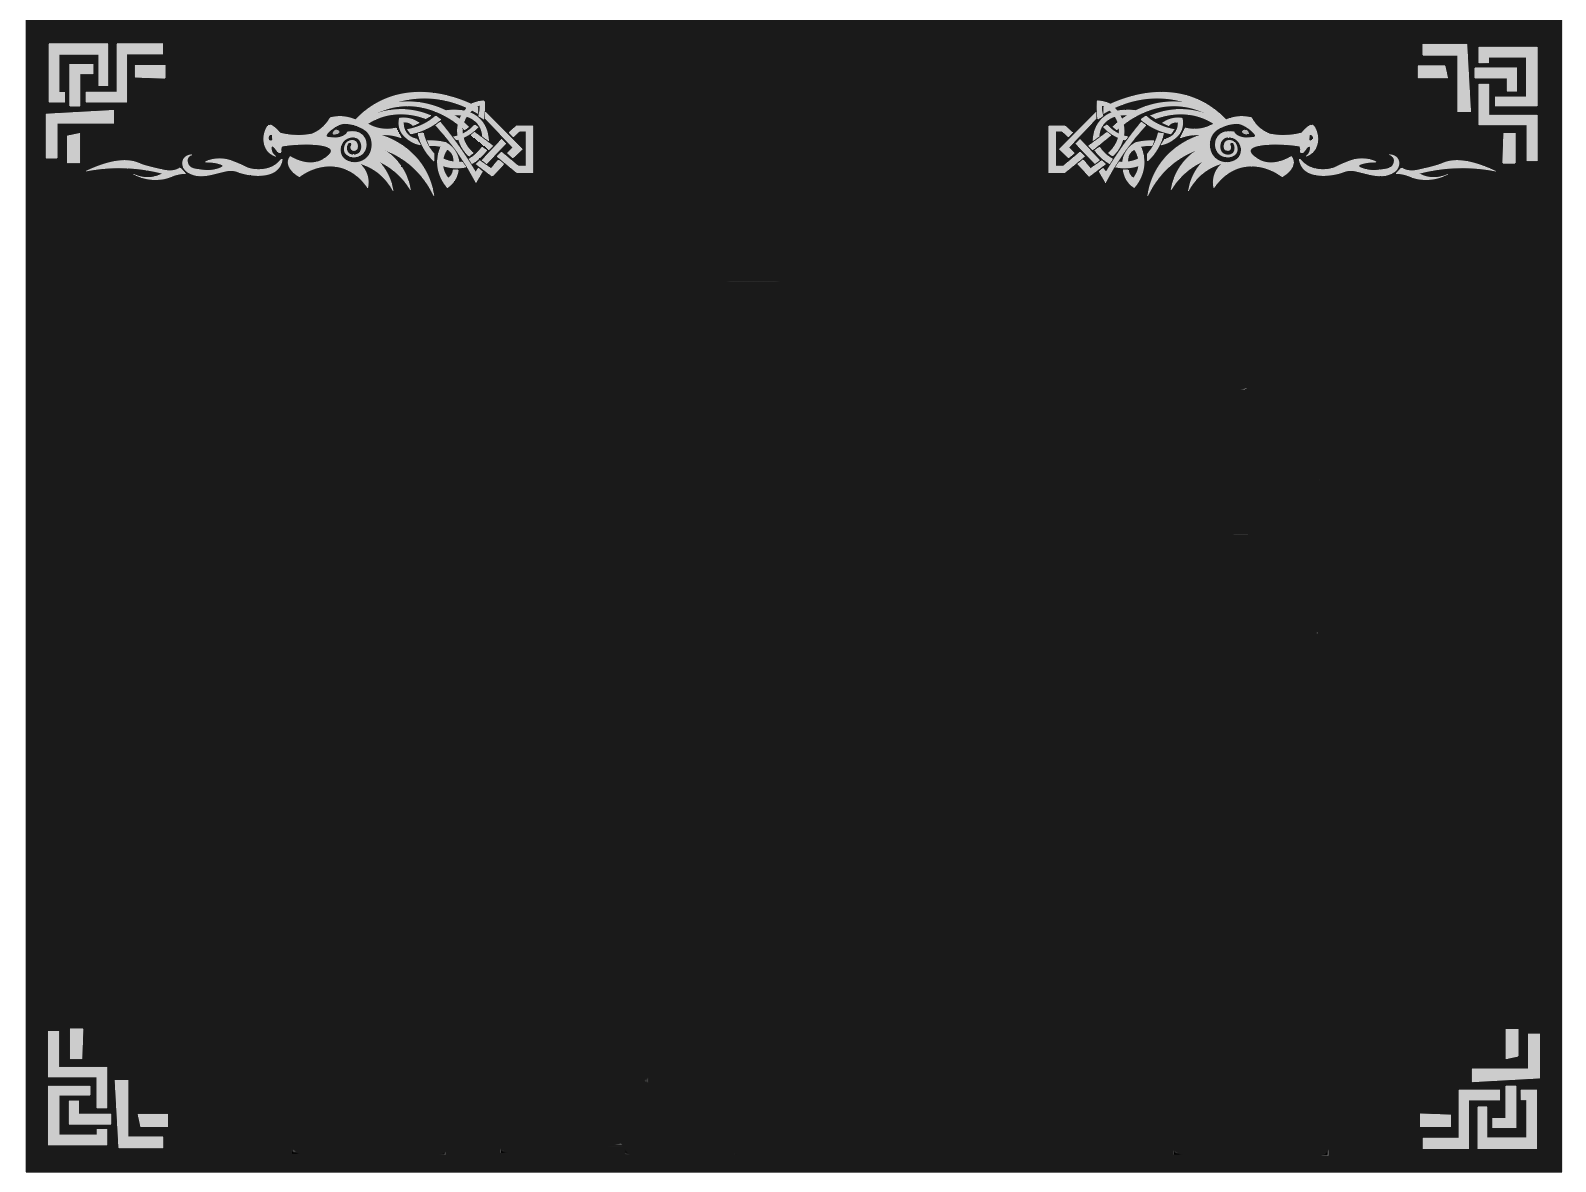
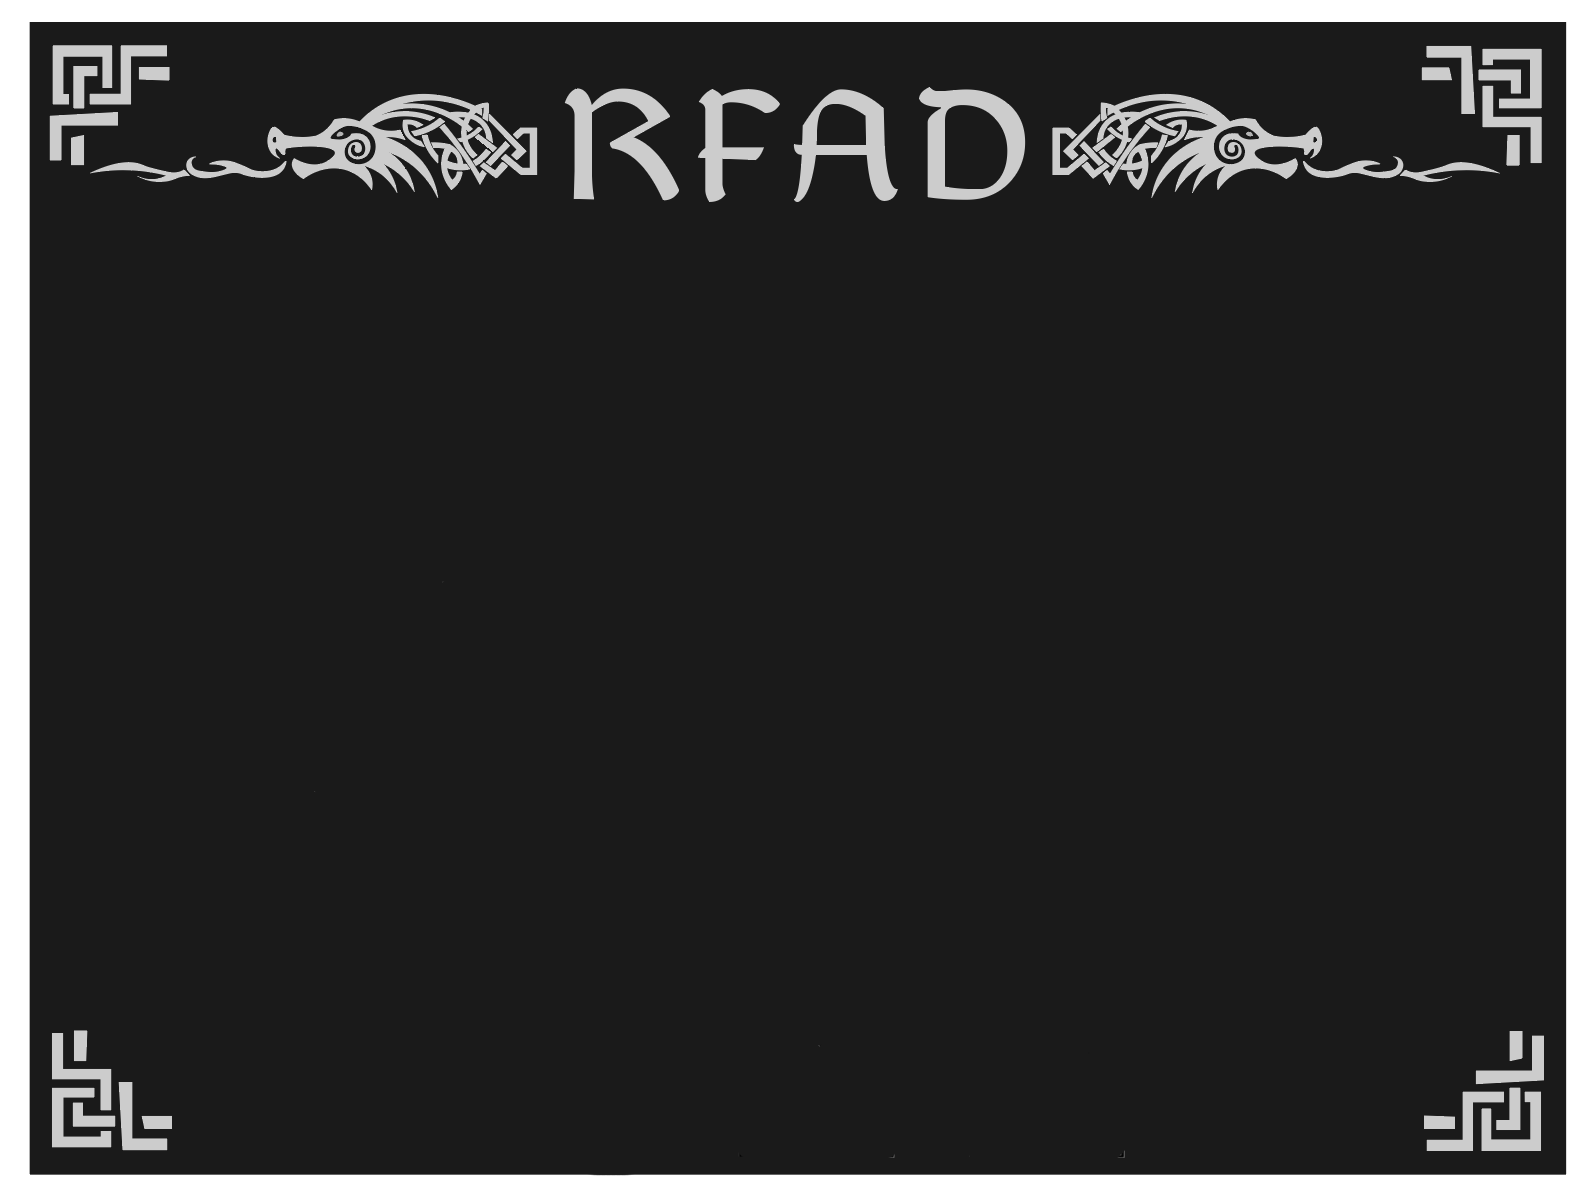
доблавен нормальный ресайз, добавлен дизайн зодиака, пока без ресайза кнопок

Changed region(s): [[0.0, 0.031, 0.9887, 0.9933]]

diff --git a/main.py b/main.py
@@ -209,7 +209,7 @@ class SkyrimLauncher(QWidget):
 
         # Определение пути к папке с игрой (текущая директория)
         self.game_path = os.path.abspath(os.getcwd())
-        self.selected_game_folder.setText(f'Game folder: {self.game_path}')
+        #self.selected_game_folder.setText(f'Game folder: {self.game_path}')
 
         # Асинхронная проверка обновлений после отображения окна
         self.check_updates_async()
@@ -219,21 +219,26 @@ class SkyrimLauncher(QWidget):
         self.timer.timeout.connect(self.update_ui)
         self.timer.start(100)  # Обновление каждые 100 мс
 
+    def update_background(self):
+        pixmap = QPixmap('assets/background2.png')
+        palette = self.palette()
+        scaled_pixmap = pixmap.scaled(
+            self.size(),
+            Qt.IgnoreAspectRatio,
+            Qt.SmoothTransformation)
+        palette.setBrush(QPalette.Background, QBrush(scaled_pixmap))
+        self.setPalette(palette)
+
+    def resizeEvent(self, event):
+        self.update_background()
+        super().resizeEvent(event)
+
     def initUI(self):
         #self.setWindowTitle('RFAD Game Launcher')
         self.setGeometry(200, 200, 800, 480)
 
         # Установка фонового изображения
-        pixmap = QPixmap(resource_path('assets/background.png'))
-        palette = self.palette()
-        palette.setBrush(
-            QPalette.Background,
-            QBrush(
-                pixmap.scaled(
-                    self.size(),
-                    Qt.IgnoreAspectRatio,
-                    Qt.SmoothTransformation)))
-        self.setPalette(palette)
+        self.update_background()
 
         layout = QVBoxLayout()
 
@@ -241,26 +246,62 @@ class SkyrimLauncher(QWidget):
         #self.title.setObjectName('title')
         #layout.addWidget(self.title)
 
-        self.selected_game_folder = QLabel('Game folder: None', self)
-        layout.addWidget(self.selected_game_folder)
+        # self.selected_game_folder = QLabel('Game folder: None', self)
+        # layout.addWidget(self.selected_game_folder)
 
-        self.update_status = QLabel('Status: Initializing...', self)
-        layout.addWidget(self.update_status)
+        # self.update_status = QLabel('Status: Initializing...', self)
+        # layout.addWidget(self.update_status)
+        #
+        # self.local_version = QLabel('Local Version: N/A', self)
+        # layout.addWidget(self.local_version)
+        #
+        # self.online_version = QLabel('Online Version: N/A', self)
+        # layout.addWidget(self.online_version)
 
-        self.local_version = QLabel('Local Version: N/A', self)
-        layout.addWidget(self.local_version)
+        # self.update_button = QPushButton('Update', self)
+        # self.update_button.setVisible(False)
+        # self.update_button.clicked.connect(self.start_update)
+        # layout.addWidget(self.update_button)
+        # hbox = QHBoxLayout()
+        # hbox.
+        # layout.addLayout(hbox)
+        layout.addStretch(1)
+        for _ in range(4):
+            button = QToolButton(self)
+            button.setIcon(QIcon(resource_path("assets/middle-button.png")))
+            button.setIconSize(QSize(400, 50))
+            button.setToolButtonStyle(Qt.ToolButtonIconOnly)
 
-        self.online_version = QLabel('Online Version: N/A', self)
-        layout.addWidget(self.online_version)
+            hbox = QHBoxLayout()
+            hbox.addStretch(1)
+            hbox.addWidget(button)
+            hbox.addStretch(1)
+            layout.addLayout(hbox)
 
-        self.update_button = QPushButton('Update', self)
-        self.update_button.setVisible(False)
-        self.update_button.clicked.connect(self.start_update)
-        layout.addWidget(self.update_button)
 
-        self.play_button = QPushButton('Play', self)
-        self.play_button.clicked.connect(self.play_game)
-        layout.addWidget(self.play_button)
+        # self.button2 = QToolButton(self)
+        # self.button2.setIcon(QIcon(resource_path("assets/middle-button.png")))
+        # self.button2.setIconSize(QSize(500, 50))
+        # self.button2.setToolButtonStyle(Qt.ToolButtonIconOnly)
+        # self.play_button.clicked.connect(self.play_game)
+        #
+        # layout.addStretch(1)
+        #
+        # # Создаем горизонтальный layout для центрирования кнопки по горизонтали
+        # hbox = QHBoxLayout()
+        # hbox.addStretch(1)  # Растяжение слева
+        # hbox.addWidget(self.button1) # Добавляем кнопку
+        # hbox.addStretch(1)  # Растяжение справа
+        #
+        # # Добавляем горизонтальный layout в вертикальный
+        # layout.addLayout(hbox)
+        #
+        # # Добавляем растяжение снизу
+        # layout.addStretch(1)
+
+        # Устанавливаем основной layout для виджета
+        layout.addStretch(1)
+        self.setLayout(layout)
 
         self.progress_bar = QProgressBar(self)
         self.progress_bar.setVisible(False)
@@ -292,15 +333,15 @@ class SkyrimLauncher(QWidget):
                 'Status: Required files not found on Google Drive')
             return
 
-        self.local_version.setText(f'Local Version: {local_version}')
-        self.online_version.setText(f'Online Version: {remote_version}')
-
-        if local_version != remote_version:
-            self.update_status.setText('Status: Update available')
-            self.update_button.setVisible(True)
-        else:
-            self.update_status.setText('Status: Up to date')
-            self.update_button.setVisible(False)
+        # self.local_version.setText(f'Local Version: {local_version}')
+        # self.online_version.setText(f'Online Version: {remote_version}')
+        #
+        # if local_version != remote_version:
+        #     self.update_status.setText('Status: Update available')
+        #     self.update_button.setVisible(True)
+        # else:
+        #     self.update_status.setText('Status: Up to date')
+        #     self.update_button.setVisible(False)
 
     def start_update(self):
         if not self.game_path:
@@ -355,17 +396,17 @@ class SkyrimLauncher(QWidget):
                     str(e)}')
             logging.error(f"Error replacing version file: {str(e)}")
 
-    def play_game(self):
-        if not self.game_path:
-            self.update_status.setText('Status: No game path set')
-            return
-
-        game_executable = os.path.join(self.game_path, 'Skyrim.exe')
-        if os.path.exists(game_executable):
-            subprocess.Popen(game_executable, shell=True)
-            self.update_status.setText('Status: Game started')
-        else:
-            self.update_status.setText('Status: Skyrim.exe not found')
+    # def play_game(self):
+    #     if not self.game_path:
+    #         self.update_status.setText('Status: No game path set')
+    #         return
+    #
+    #     game_executable = os.path.join(self.game_path, 'Skyrim.exe')
+    #     if os.path.exists(game_executable):
+    #         subprocess.Popen(game_executable, shell=True)
+    #         self.update_status.setText('Status: Game started')
+    #     else:
+    #         self.update_status.setText('Status: Skyrim.exe not found')
 
     def get_drive_files(self):
         results = service.files().list(
